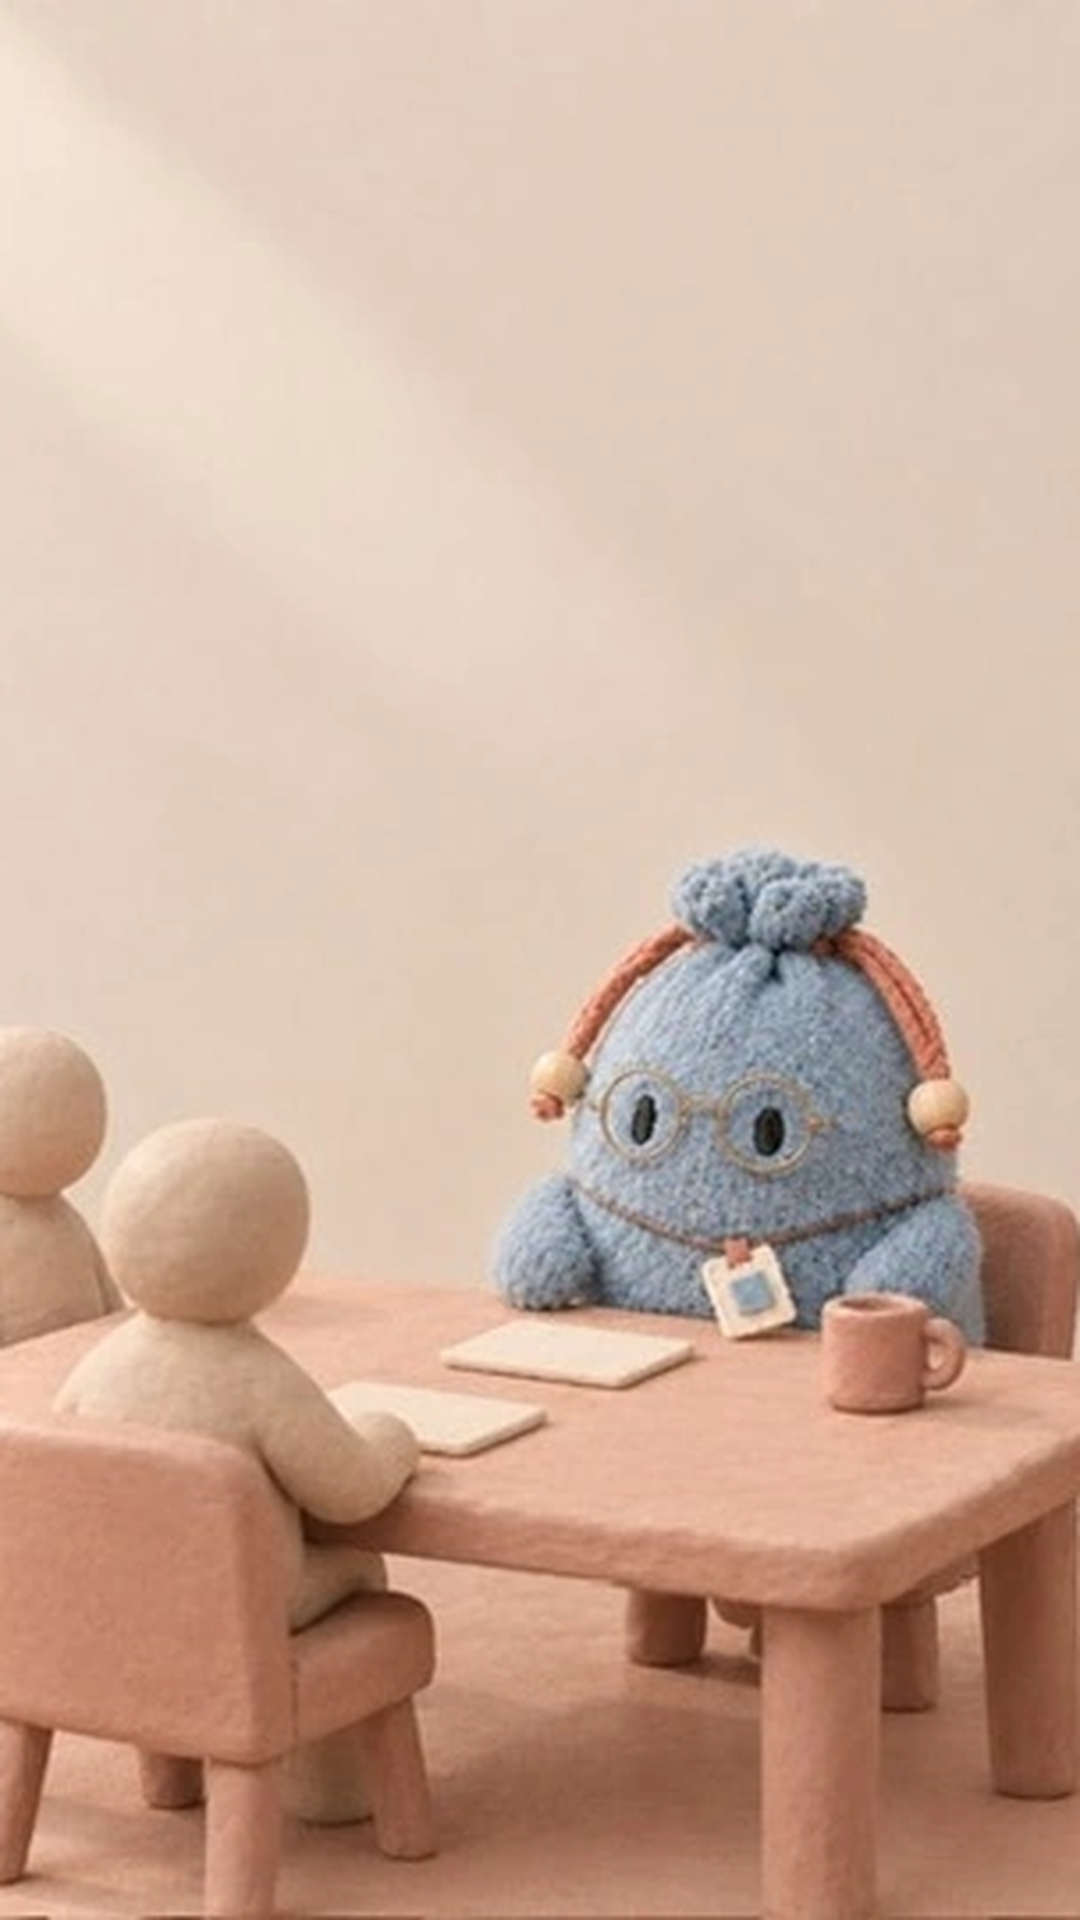
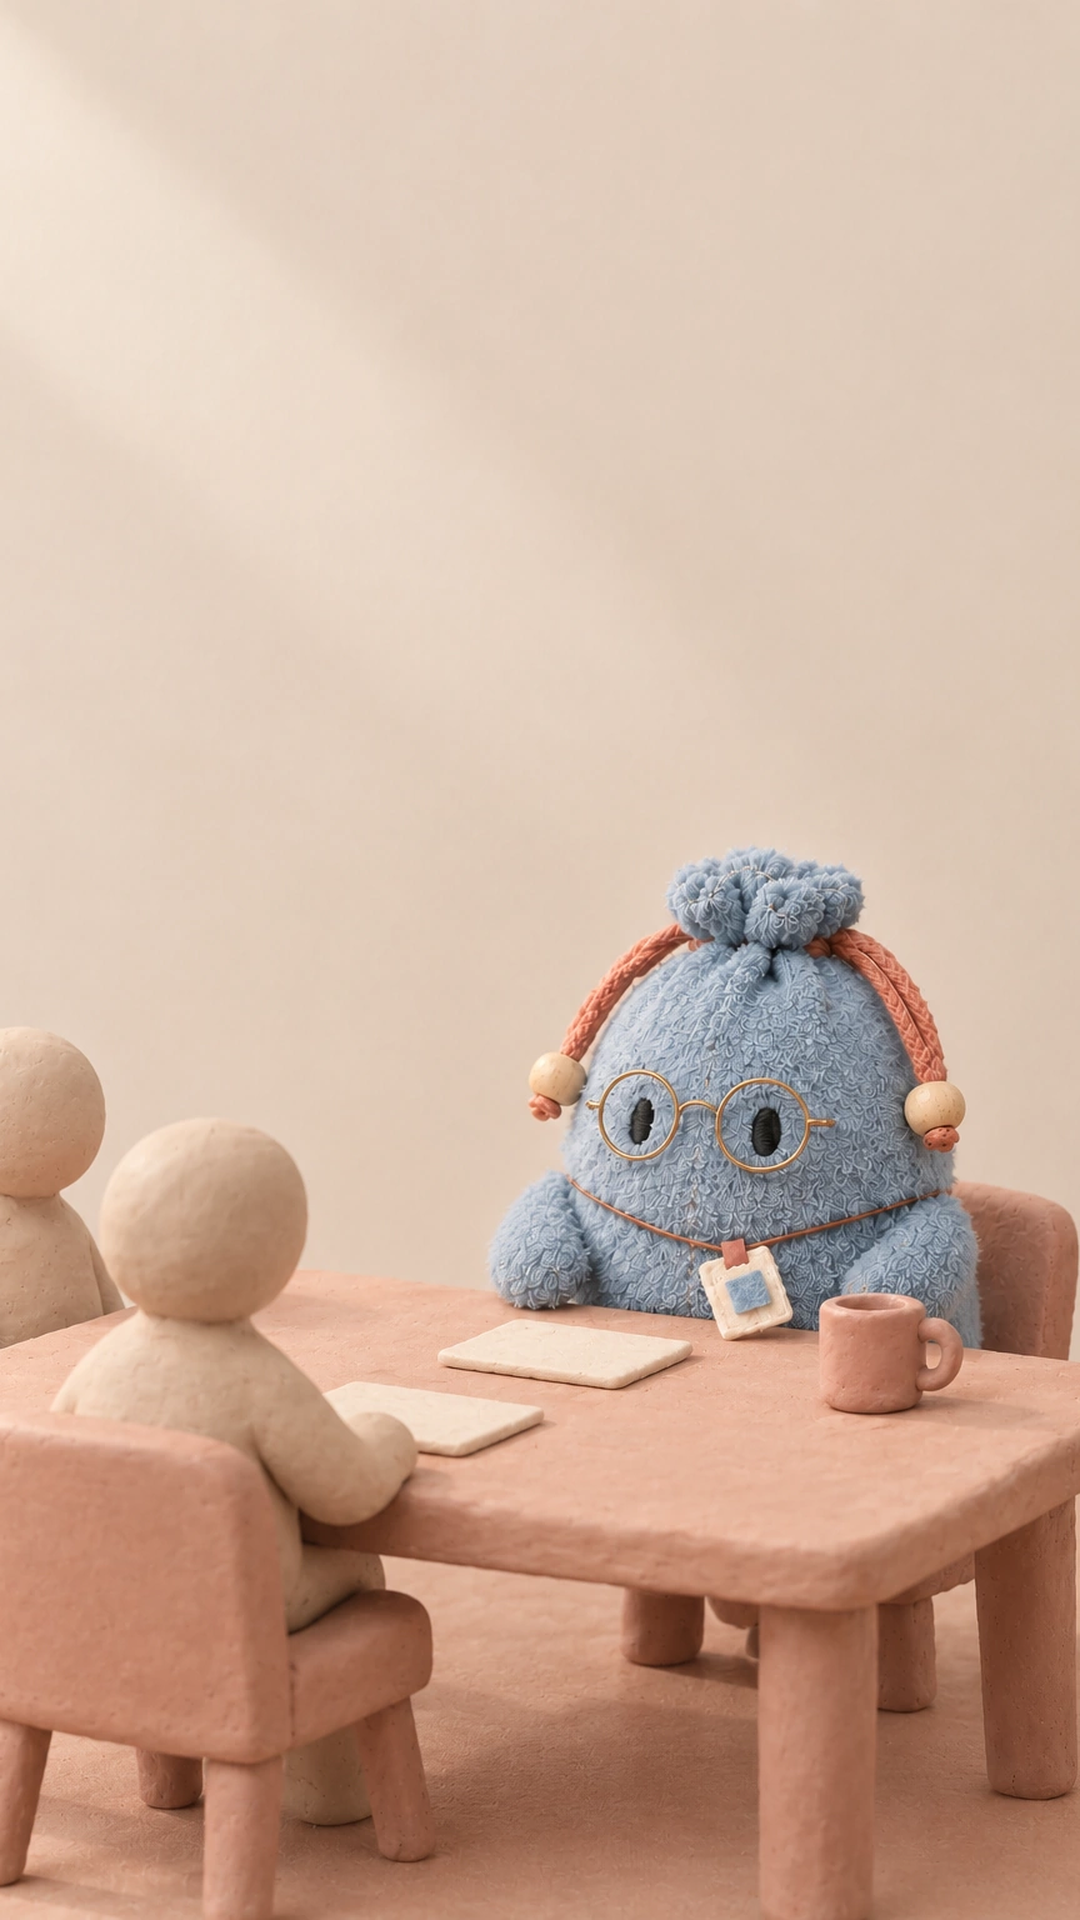
docs(sns): #1 の素材4枚を揃え、ハピハピの森の調査を §8 に残す
- kotosan-scene-meeting-v1 を原寸（1024x1536）に差し替え。360x540 版は 356% 拡大で
  生地が潰れていた。いまは 125% で他カットと同じ精細さ
- kotosan-pose-puff-side-v2 を追加（眼鏡ゴールド・机テラコッタ）。v1 は銀眼鏡で不採用
- kotosan-reel.md §8 を新設。ハピハピの森の実数字と設計、前回の分析の訂正2点、
  真似しないもの（三人称の語り手）、判定後に試す候補、耐え子から取り入れる点

#1 は4カットとも同じセットで揃い、MP4（12.15秒）まで書き出し確認済み。

Claude-Session: https://claude.ai/code/session_012igBNXD7n8VJ2KEbUVPf2U

diff --git a/docs/sns/series/kotosan-reel.md b/docs/sns/series/kotosan-reel.md
@@ -182,3 +182,60 @@
 > **設定書§13 からの変更は曜日だけ。** 元は火・金だったが、火曜は連載28週が埋まっているため
 > **水・金**にした（2026-09-20 ふうか決裁）。**火曜の3本が1日ずつ後ろに動くだけで、金曜は不動。**
 > 水曜と金曜は話題とも噛み合う（平日の真ん中の理不尽／金曜夕方の「ちょっといい？」）。
+
+---
+
+## 8. 10/16 の判定後に検討すること（2026-09-23 調査）
+
+> **テスト期間中は型を変えない。** 判定が 10/16 で、いま変数を増やすと
+> 「型が悪いのか題材が悪いのか」が切り分けられなくなる。ここは判定とセットで扱う。
+
+### ハピハピの森（@hapi2_no_mori）から分かったこと
+
+ふうかさんが送ってくれた実画面から取った数字。**動画は見ていない**（静止画のみ）。
+
+| 回 | 尺 | いいね | コメント | リポスト | シェア | シェア/いいね |
+|---|---|---|---|---|---|---|
+| 『みずやり』 | 1:22 | 3.6万 | 102 | 1,089 | 4,204 | **11.7%** |
+| 『おでかけ』 | 0:41 | 8,689 | 27 | 231 | 716 | **8.2%** |
+
+**シェア比が異常に高い。** 一般的な投稿は1〜2%程度。人に見せたくなる作りになっている。
+
+分かった設計。
+
+1. **オリジナル音源を持っている**（`hapi2_no_mori · オリジナル音源`）。ナレーション＋BGM を自前で用意し、
+   毎回同じ音源を使う。音そのものがシリーズの識別になり、他人がその音源を使うと拡散する
+2. **キャプションの文型が完全固定。**『お題』＋「ハピーくまくまは、〜みたいだね」
+3. **ハッシュタグは2個だけ**（#ハピハピの森 #ハピーくまくま）
+4. **1カット目にキャラが出ていない。** 森の風景だけで、字幕は「ゆかいな仲間たちが 住んでいるよ」
+5. **語り手は三人称。** 外から見ている誰かが「〜みたい」と言う
+
+### 前回の分析からの訂正（2026-09-23）
+
+- **「ことさんの13秒は長い」は取り下げ。** ハピハピは 0:41〜1:22 で 3.6万いいね。
+  尺の短さは勝因ではない。**短くする根拠にはならない**
+- **「1秒目に一語を大きく」もハピハピ由来ではない。** ハピハピの1秒目は文字が少ないのではなく、
+  **絵が空いている**（風景だけ・キャラなし）。読ませずに眺めさせている。
+  案として検討する価値は残るが、ハピハピを根拠にはできない
+
+### 真似しないもの
+
+**三人称の語り手。** ことさんの核は「飲み込んだ本音」で、これは一人称でないと成立しない。
+ここを三人称にするとシリーズが別物になる。
+
+### 判定後に試す候補（優先順）
+
+1. **オリジナル音源をつくる。** ふうかさんの声のナレーション＋固定BGM。
+   CLAUDE.md §3 が「音声（ふうかの声）は利用可：リールのナレーション等（顔は出さない）」を明記している。
+   **いま IG 側で毎回違う音楽を足しているなら、それ自体がすでに統制されていない変数**。
+   固定音源にするほうがテストの筋がよくなる、という議論もできる
+2. **キャプションの文型を固定する。** いまは回ごとに文体が違う
+3. **ハッシュタグを2個に絞る**（いま3〜4個）。シリーズタグ＋キャラタグ
+4. **1カット目からキャラを外す回を作る。** デスクだけ、机の上だけ
+
+### 耐え子の日常から取り入れる（2026-09-23 ふうか合意）
+
+- **理不尽を言う相手を絵の中に置く。** 状況を文字で説明せず、構図で「誰が誰に」を見せる。
+  9/23 の #1 で会議シーンに顔のないクレイ人形を入れて実現した。**この方向を続ける**
+- 設定書§2 の差別化3点（本音の切れ味／「（ごくん）」とふくらみ／立体の世界観と恋愛まで広がる話題）は崩さない
+
